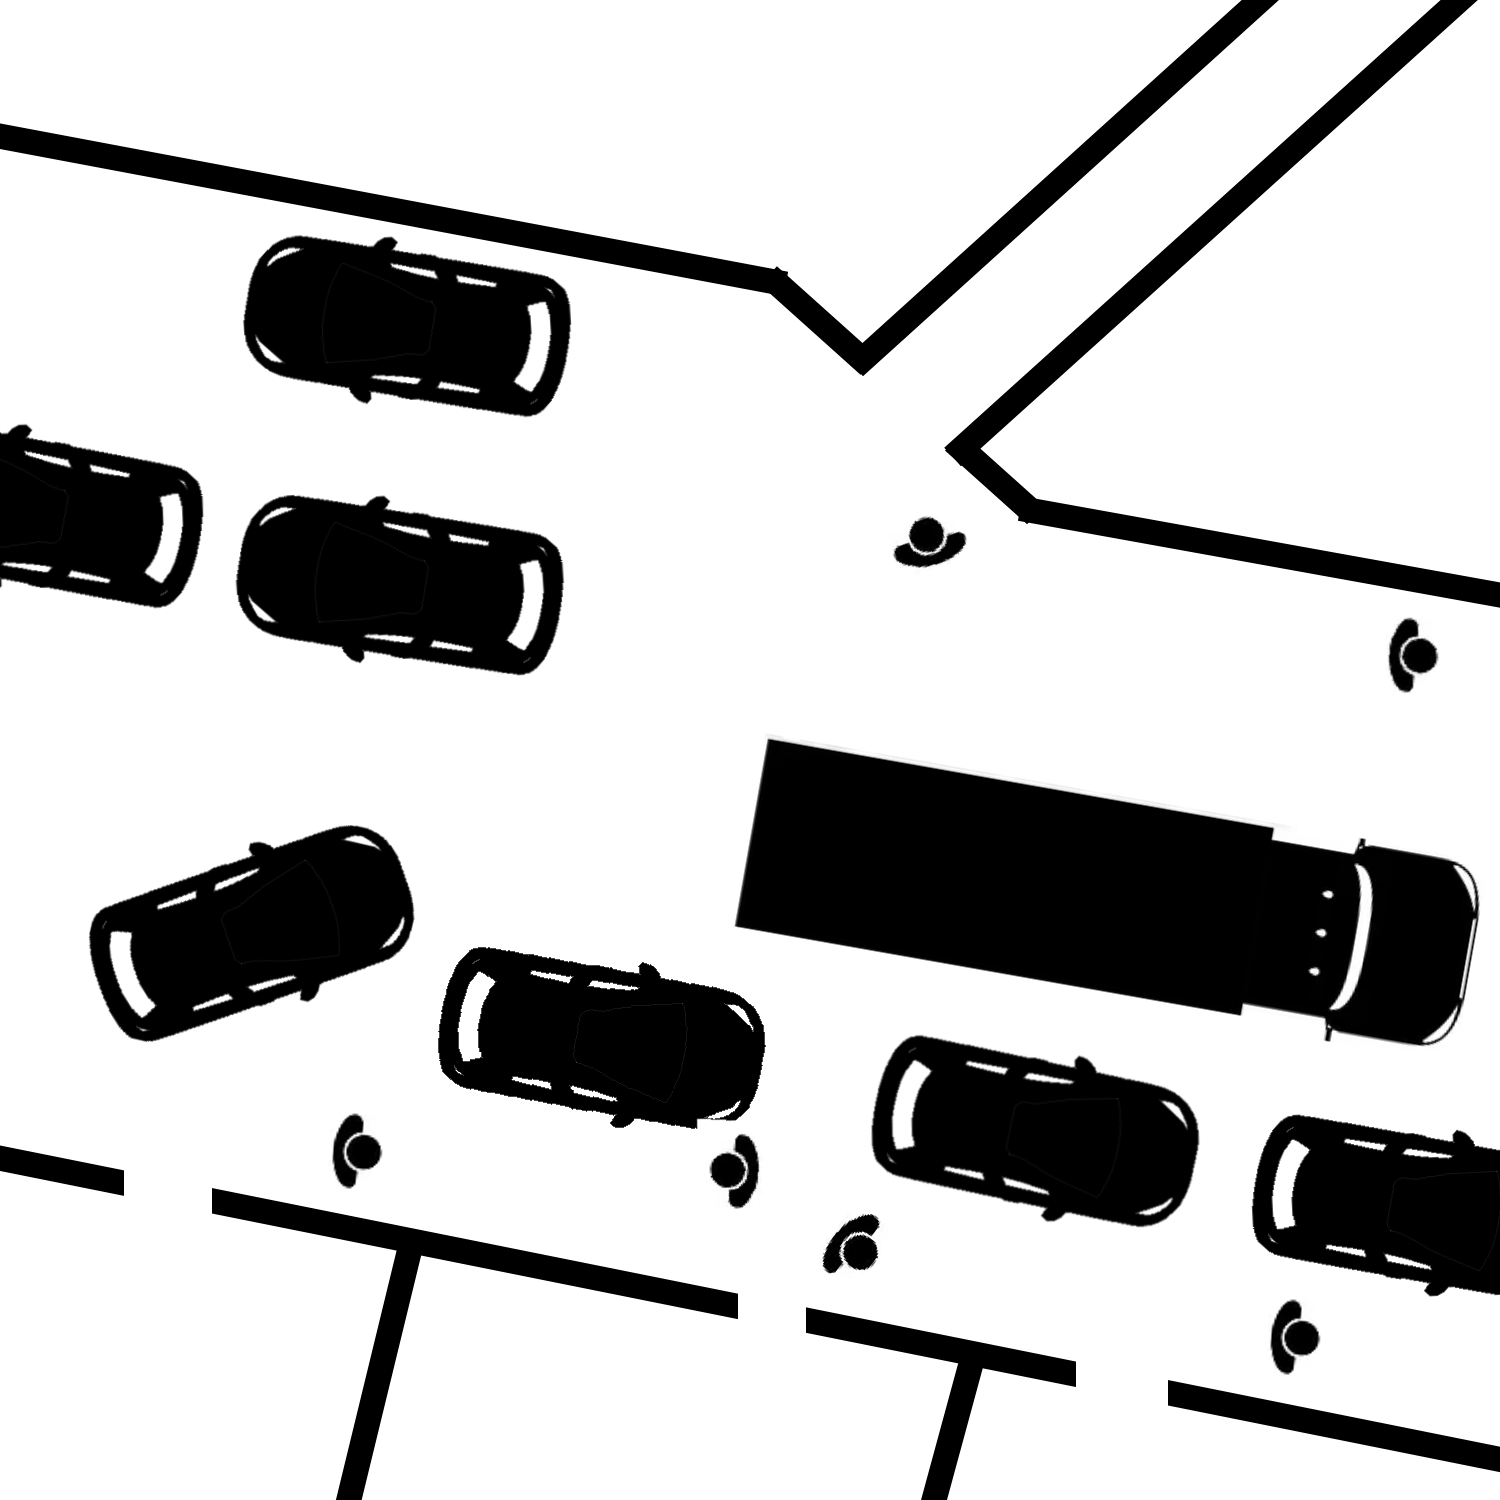
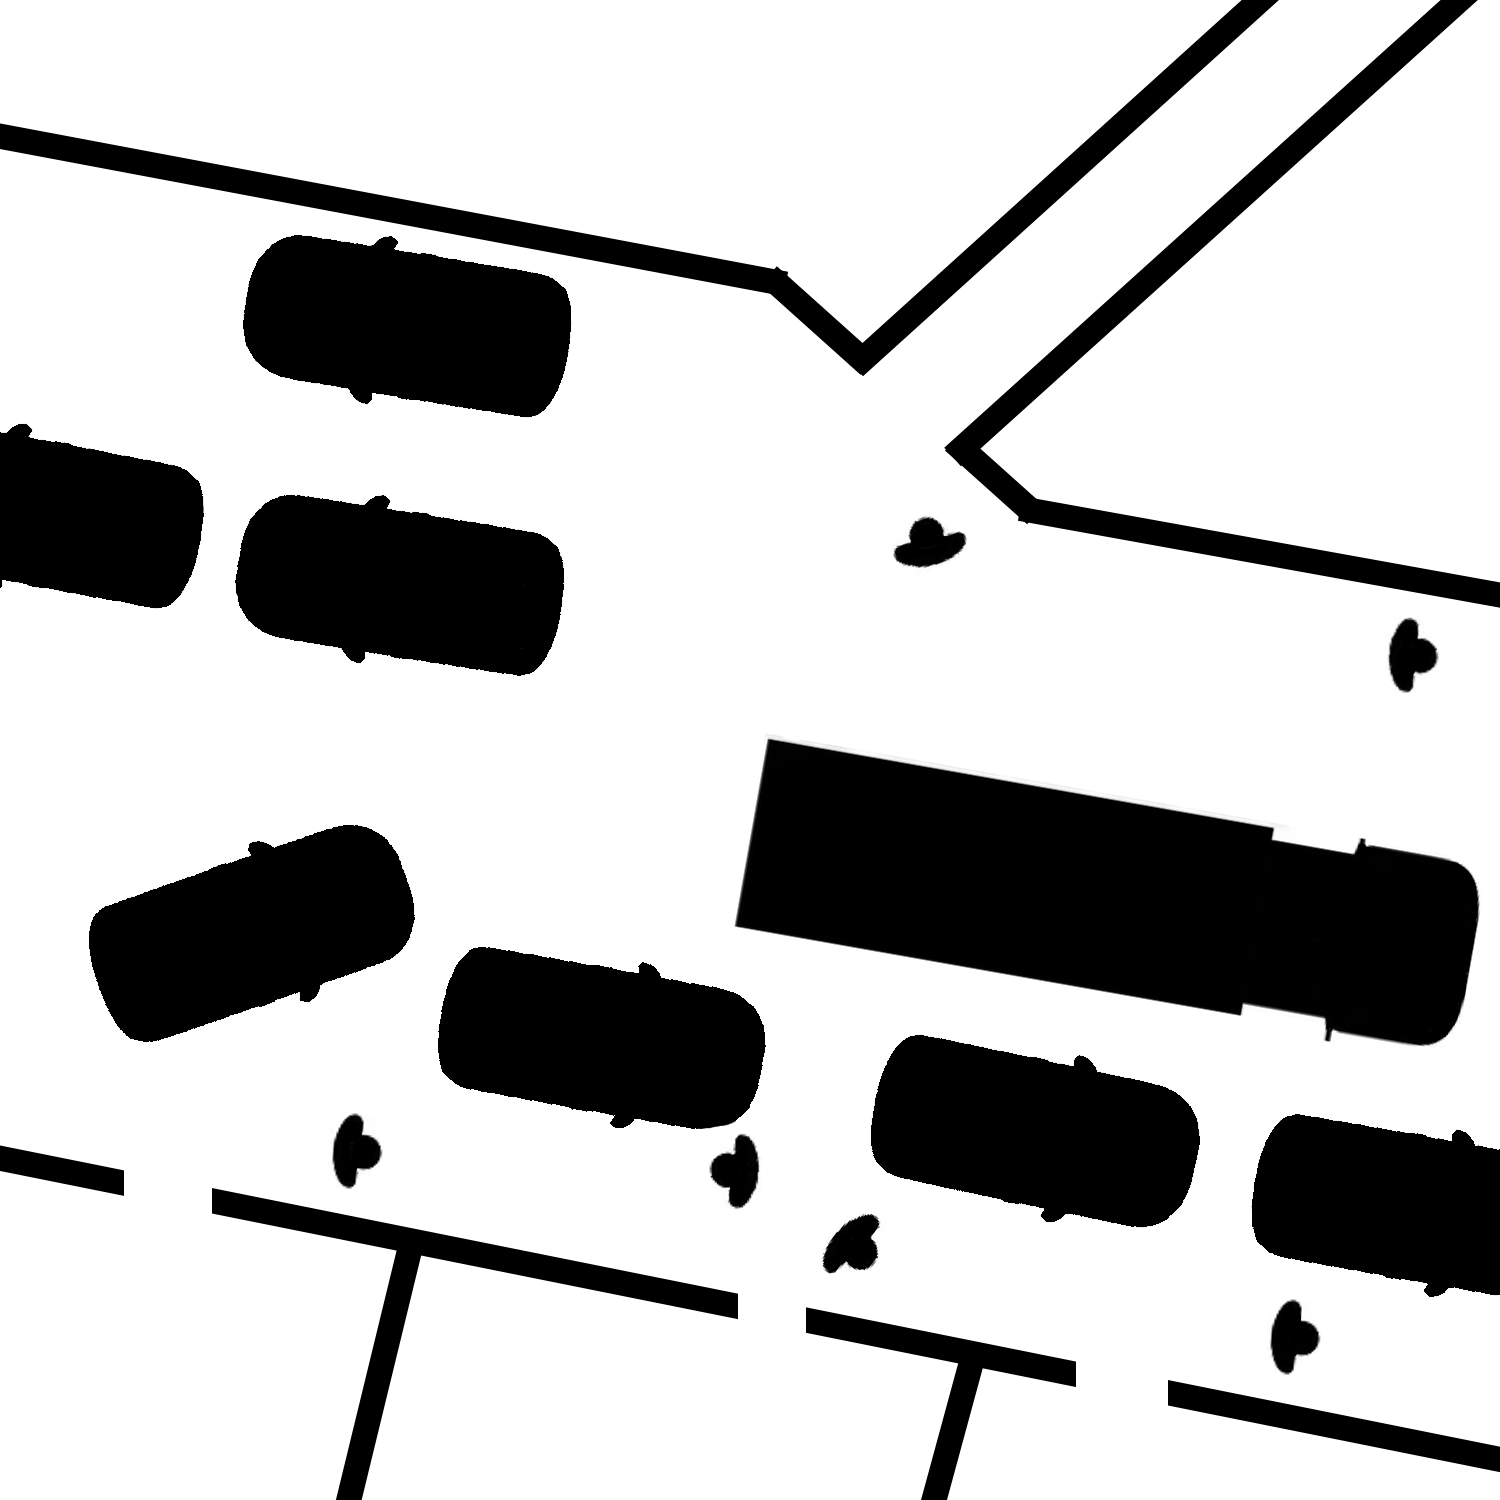
changed map images to remove voids

diff --git a/jump_point_search.m b/jump_point_search.m
@@ -140,8 +140,8 @@ function out = jump(grid, x, d, g, s)
     % Check if n is within grid or is an obstacle
     if n(0) < 0 || n(1) < 0 || ...
        n(0) > grid.GridSize(0) || ...
-       n(1) > grid.GridSize(1) ||
-       getOccupancy(grid, n, "grid");
+       n(1) > grid.GridSize(1) || ...
+       getOccupancy(grid, n, "grid")
        
         out = null();
         return
@@ -173,6 +173,7 @@ function out = jump(grid, x, d, g, s)
                 end
             end
         end
+    end
     % else jump recursively
     out = jump(n, d, s, g);
 end
